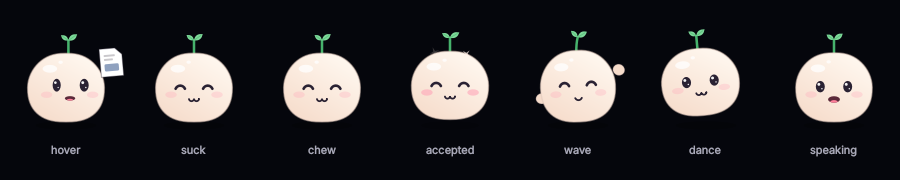
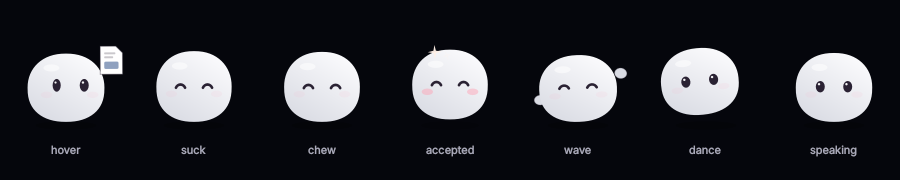
Pip: clean and minimal, a soft mochi blob without sprout or mouth
Rounder body, one soft highlight, a single eye glint, faint cheeks. No mouth: speaking pulses the
body with the voice, chewing squishes it, swallowed files sink into it. The spring that moved the
sprout now gives a soft jelly wobble.

Claude-Session: https://claude.ai/code/session_014cEZ2VwHUnFSRNriFUyGeE

diff --git a/omarchy/plugin/ui/pip-engine.js b/omarchy/plugin/ui/pip-engine.js
@@ -4,8 +4,8 @@
 // No QML and no wall clock: the host calls update(dt) and draw(ctx, w, h), and the engine keeps its
 // own clock, so the same file runs in Quickshell and under Node (omarchy/dev/pip-engine.test.js).
 //
-// Pip is Jarvis's own character: a little gumdrop with a springy sprout, glossy eyes, rosy cheeks,
-// a cat mouth and nub hands. Its behaviours follow the ones Coucou made popular (states, emotes,
+// Pip is Jarvis's own character: a clean, minimal soft blob with glossy eyes, faint cheeks and nub
+// hands, and no mouth: it speaks by pulsing with the voice and swallows files into its body. Its behaviours follow the ones Coucou made popular (states, emotes,
 // particles, greeting wave, dance, gulp and chew, poke-to-dizzy, the file swallow), written anew
 // here; the timing ideas come from Coucou's MIT engine (github.com/louis-cfm/coucou, (c) 2026 Louis
 // Raillé). None of Coucou's artwork, character, name or sounds is used.
@@ -33,33 +33,33 @@ function rgba(c, a) {
 function mix(a, b, t) { return [lerp(a[0], b[0], t), lerp(a[1], b[1], t), lerp(a[2], b[2], t)] }
 
 // ── Palette ──
-var BODY_TOP = hex("#fff8f0"), BODY_BOTTOM = hex("#f6dccb"), INK = hex("#2a2233"), CHEEK = hex("#ff9eb3")
-var LEAF = hex("#7ed99a"), LEAF_DARK = hex("#46b26c"), MOUTH = hex("#5b2a3a"), TONGUE = hex("#ff7f9a")
+var BODY_TOP = hex("#fbfbfd"), BODY_BOTTOM = hex("#d9dbe3"), INK = hex("#2a2233"), CHEEK = hex("#ff9eb3")
+var MOUTH = hex("#5b2a3a"), TONGUE = hex("#ff7f9a")
 
 // ── States: colour, how much it tints the body, eyes, badge, and the idle motion of each ──
 function S(color, tint, eye, badge, extra) {
   var o = { color: hex(color), tint: tint, eye: eye, badge: badge, bounces: false, scans: false, breathes: false,
-            zz: false, sweat: false, look: null, tilt: 0, sprout: 0 }
+            zz: false, sweat: false, look: null, tilt: 0 }
   for (var k in extra) o[k] = extra[k]
   return o
 }
 var STATES = {
   idle:      S("#ffe9dc", 0, "pill", null, { breathes: true }),
-  listening: S("#5fd4ff", 0.45, "wide", null, { look: [0, -0.25], sprout: 1 }),
+  listening: S("#5fd4ff", 0.45, "wide", null, { look: [0, -0.25] }),
   speaking:  S("#8fd8ff", 0.35, "pill", null, {}),
   thinking:  S("#a98bff", 0.6, "pill", "dots", { look: [0.55, -0.6], tilt: -0.06 }),
   working:   S("#5aa8ff", 0.6, "pill", "dots", {}),
   searching: S("#7c83ff", 0.6, "pill", "dots", { scans: true }),
   browsing:  S("#4cc3ff", 0.55, "pill", "dots", { scans: true }),
   reading:   S("#b49cff", 0.55, "pill", "dots", { look: [0, 0.5] }),
-  approval:  S("#ffb53d", 0.7, "wide", "bang", { bounces: true, sprout: 1 }),
+  approval:  S("#ffb53d", 0.7, "wide", "bang", { bounces: true }),
   question:  S("#3fe0f0", 0.62, "pill", "question", { tilt: 0.17 }),
   error:     S("#ff5d6c", 0.7, "flat", "dot", {}),
   finished:  S("#3fdc9c", 0.4, "happy", "dot", {}),
   ratelimit: S("#ff9a4a", 0.6, "tired", "dot", { sweat: true }),
-  sleeping:  S("#9aa8c2", 0.3, "closed", null, { breathes: true, zz: true, sprout: -1 }),
+  sleeping:  S("#9aa8c2", 0.3, "closed", null, { breathes: true, zz: true }),
   dizzy:     S("#ff7fc4", 0.6, "spiral", null, {}),
-  offline:   S("#8a93a6", 0.4, "closed", null, { breathes: true, sprout: -1 })
+  offline:   S("#8a93a6", 0.4, "closed", null, { breathes: true })
 }
 var EMOTE_EYE = { love: "heart", surprised: "dot", proud: "star", wink: "wink", yawn: "tired", happy: "happy",
                   annoyed: "line", content: "cup" }
@@ -71,8 +71,8 @@ function danceTransform(seconds, level, R) {
            rotate: 0.1 * Math.sin(Math.PI * beat) * level, sx: 1 + 0.045 * land * level, sy: 1 - 0.06 * land * level }
 }
 
-// The swallow choreography (seconds after the drop): the mouth opens, the file is sucked in, the
-// mouth closes, a squeeze, two chews, then Pip waits for the real result (accepted / rejected).
+// The swallow choreography (seconds after the drop): the file is drawn into the body, a squeeze,
+// two chews (little squishes), then Pip waits for the real result (accepted / rejected).
 var SW = { SUCK_END: 0.3, CLOSE_END: 0.39, SQUEEZE_END: 0.65, CHEW1: 0.65, CHEW_END: 0.93, MOUTH_AJAR: 0.2,
            MOUTH_OPEN: 0.44 }
 function squeeze(t) {
@@ -98,7 +98,7 @@ function Engine(seed) {
   this.tgYaw = 0; this.tgPitch = 0; this.tgTilt = 0; this.tgSx = 1; this.tgSy = 1; this.tgEs = 1
   // inputs
   this.lookX = 0; this.lookY = 0; this.level = 0; this.speaking = false
-  // the sprout (soft part on a spring) and the mouth spring
+  // the jelly spring (soft wobble) and the mouth spring
   this.physDx = 0; this.physDy = 0; this.physVx = 0; this.physVy = 0
   this.prevYaw = 0; this.prevOy = 0; this.prevRoll = 0
   this.slotH = 0; this.slotHTarget = 0; this.slotHVel = 0; this.chewing = false
@@ -379,7 +379,7 @@ E._stepSwallow = function(dt) {
     var t = s.t
     this.slotHTarget = t < SW.SUCK_END ? SW.MOUTH_OPEN : 0
     var k = Ease.in(seg(t, 0, SW.SUCK_END))
-    s.fx = lerp(s.sx0, 0, k); s.fy = lerp(s.sy0, 0.42, k)
+    s.fx = lerp(s.sx0, 0, k); s.fy = lerp(s.sy0, 0.1, k)
     s.scale = 1 - k
     this.lookX = s.fx * 0.4; this.lookY = 0.3
     if (t > SW.SUCK_END && t <= SW.SQUEEZE_END) { var q = squeeze(t); this.sx = q[0]; this.sy = q[1] }
@@ -441,7 +441,7 @@ E.update = function(dt) {
   } else if (this.permanentEmote) {
     this.tgSy = 1 + Math.sin(t * 2.2) * 0.04; this.tgSx = 1 - Math.sin(t * 2.2) * 0.02
   } else {
-    this.tgSy = 1 + Math.sin(t * 1.6) * 0.012 + talk * 0.05; this.tgSx = 1 - talk * 0.025
+    this.tgSy = 1 + Math.sin(t * 1.6) * 0.012 + talk * 0.09; this.tgSx = 1 + talk * 0.04
   }
   if (this.permanentEmote && n > this.miniNext) this._miniBehaviour()
 
@@ -494,12 +494,12 @@ E.update = function(dt) {
   if (this.dancing) this.danceLevel = Math.min(1, this.danceLevel + dt / 0.3)
   else this.danceLevel = Math.max(0, this.danceLevel - dt / 0.5)
 
-  // the sprout lags behind turns, hops and rolls on a spring (k 60, c 9), and perks up or droops
+  // the jelly spring lags behind turns, hops and rolls (k 60, c 9)
   if (dt > 0) {
     var yawVel = (this.yaw - this.prevYaw) / dt, oyVel = (this.oy - this.prevOy) / dt
     var dRoll = this.roll - this.prevRoll, rollVel = Math.abs(dRoll) > Math.PI ? 0 : dRoll / dt
     var tDx = clamp(-yawVel * 0.35 - this.tilt * 2 + rollVel * 0.12 + (this.state === "listening" ? Math.sin(t * 7) * this.level * 0.6 : 0), -1, 1)
-    var tDy = clamp(oyVel * 0.5 - c.sprout * 0.25, -1, 1)
+    var tDy = clamp(oyVel * 0.5, -1, 1)
     this.physVx += (60 * (tDx - this.physDx) - 9 * this.physVx) * dt
     this.physVy += (60 * (tDy - this.physDy) - 9 * this.physVy) * dt
     this.physDx += this.physVx * dt
@@ -520,7 +520,7 @@ E.eye = function() { return this.eyeOverride || this.cfg.eye }
 
 // ── drawing ──
 // Draws Pip centred in a w×h box (the body radius R is 0.3 of the smaller side, leaving room for the
-// sprout, the badge and particles).
+// badge and particles).
 E.draw = function(x, W, H) {
   var R = Math.min(W, H) * 0.3
   var rx = R * 1.06, ry = R * 0.96
@@ -543,14 +543,16 @@ E.draw = function(x, W, H) {
   x.translate(cx, cy)
   x.rotate(this.tilt + this.roll)
   // squash and stretch around the feet
-  x.translate(0, ry); x.scale(this.sx, this.sy); x.translate(0, -ry)
+  // plus a soft jelly wobble from the spring (turns, hops, pokes)
+  var j = clamp(this.physDy, -1, 1) * 0.05
+  if (this.chewing) j += Math.sin(this.clock * 16) * 0.035   // chewing: little squishes
+  x.translate(0, ry); x.scale(this.sx * (1 + j), this.sy * (1 - j)); x.translate(0, -ry)
+  x.rotate(clamp(this.physDx, -1, 1) * 0.04)
 
-  this._drawSprout(x, R, ry)
   this._drawHands(x, R, rx, ry, false)
   this._drawBody(x, R, rx, ry)
   this._drawCheeks(x, R, rx)
   this._drawEyes(x, R, rx)
-  this._drawMouth(x, R)
   this._drawHands(x, R, rx, ry, true)
   if (this.state === "dizzy") this._drawDizzyStars(x, R, ry)
   x.restore()
@@ -578,9 +580,8 @@ E._bodyPath = function(x, rx, ry) {
   x.beginPath()
   for (var i = 0; i <= 64; i++) {
     var a = i / 64 * Math.PI * 2, ca = Math.cos(a), sa = Math.sin(a)
-    var px = rx * (ca >= 0 ? Math.pow(ca, 0.8) : -Math.pow(-ca, 0.8))
-    var py = ry * (sa >= 0 ? Math.pow(sa, 0.85) : -Math.pow(-sa, 0.95))
-    if (sa < 0) px *= 1 - 0.1 * Math.pow(-sa, 1.5)         // a softer, narrower crown
+    var px = rx * (ca >= 0 ? Math.pow(ca, 0.9) : -Math.pow(-ca, 0.9))
+    var py = ry * (sa >= 0 ? Math.pow(sa, 0.82) : -Math.pow(-sa, 0.95))
     if (i === 0) x.moveTo(px, py); else x.lineTo(px, py)
   }
   x.closePath()
@@ -594,46 +595,17 @@ E._drawBody = function(x, R, rx, ry) {
   this._bodyPath(x, rx, ry)
   x.fillStyle = g
   x.fill()
-  // a soft rim and a glossy highlight
-  x.lineWidth = Math.max(1, R * 0.04)
-  x.strokeStyle = rgba(mix(bottom, INK, 0.12), 0.5)
-  this._bodyPath(x, rx, ry); x.stroke()
-  x.save(); x.globalAlpha = 0.75; x.fillStyle = "rgba(255,255,255,1)"
-  _ellipse(x, -rx * 0.42, -ry * 0.55, R * 0.2, R * 0.11); x.fill()
-  _ellipse(x, -rx * 0.14, -ry * 0.74, R * 0.06, R * 0.045); x.fill()
+  // one soft highlight
+  x.save(); x.globalAlpha = 0.55; x.fillStyle = "rgba(255,255,255,1)"
+  _ellipse(x, -rx * 0.38, -ry * 0.58, R * 0.22, R * 0.1); x.fill()
   x.restore()
 }
 E._drawCheeks = function(x, R, rx) {
-  var b = 0.35 + this.blush * 0.65
-  x.save(); x.globalAlpha = b * 0.75; x.fillStyle = rgba(CHEEK)
+  var b = 0.12 + this.blush * 0.88
+  x.save(); x.globalAlpha = b * 0.7; x.fillStyle = rgba(CHEEK)
   var off = this.yaw * R * 0.18
   _ellipse(x, -rx * 0.6 + off, R * 0.2, R * 0.16, R * 0.09); x.fill()
   _ellipse(x, rx * 0.6 + off, R * 0.2, R * 0.16, R * 0.09); x.fill()
-  x.restore()
-}
-E._drawSprout = function(x, R, ry) {
-  var bx = this.yaw * R * 0.12, by = -ry * 0.98
-  var lean = this.physDx * 0.7 + this.tilt * -0.5, droop = this.physDy
-  var tipX = bx + Math.sin(lean) * R * 0.38, tipY = by - Math.cos(lean) * R * (0.38 - droop * 0.12)
-  x.save()
-  x.lineCap = "round"
-  x.strokeStyle = rgba(LEAF_DARK); x.lineWidth = Math.max(1.2, R * 0.07)
-  x.beginPath(); x.moveTo(bx, by + R * 0.04)
-  x.quadraticCurveTo(bx + Math.sin(lean) * R * 0.05, by - R * 0.2, tipX, tipY); x.stroke()
-  // two leaves, the left one a bit smaller
-  var leaves = [[-1, 0.85], [1, 1]]
-  for (var i = 0; i < 2; i++) {
-    var s = leaves[i][0], size = leaves[i][1] * R * 0.26
-    var ang = lean + s * (0.95 - droop * 0.5)
-    x.save(); x.translate(tipX, tipY); x.rotate(ang)
-    x.beginPath(); x.moveTo(0, 0)
-    x.quadraticCurveTo(-size * 0.55, -size * 0.55, 0, -size * 1.15)
-    x.quadraticCurveTo(size * 0.55, -size * 0.55, 0, 0)
-    x.fillStyle = rgba(LEAF); x.fill()
-    x.strokeStyle = rgba(LEAF_DARK, 0.6); x.lineWidth = Math.max(0.8, R * 0.025)
-    x.beginPath(); x.moveTo(0, -size * 0.1); x.lineTo(0, -size * 0.9); x.stroke()
-    x.restore()
-  }
   x.restore()
 }
 E._drawHands = function(x, R, rx, ry, front) {
@@ -677,8 +649,7 @@ function _eye(x, s, ex, ey, w, h, open, R, side, clock) {
     _ellipse(x, ex, ey, w / 2, oh / 2); x.fill()
     if (open > 0.5) {   // glossy highlights
       x.fillStyle = "rgba(255,255,255,0.95)"
-      _ellipse(x, ex - w * 0.16, ey - oh * 0.2, w * 0.17, w * 0.17); x.fill()
-      _ellipse(x, ex + w * 0.18, ey + oh * 0.18, w * 0.08, w * 0.08); x.fill()
+      _ellipse(x, ex - w * 0.14, ey - oh * 0.22, w * 0.14, w * 0.14); x.fill()
     }
   } else if (s === "dot") {
     _ellipse(x, ex, ey, w * 0.32, w * 0.32); x.fill()
@@ -723,36 +694,6 @@ function _star(x, cx, cy, ro, ri, n) {
     else x.lineTo(cx + Math.cos(a) * r, cy + Math.sin(a) * r)
   }
   x.closePath()
-}
-E._drawMouth = function(x, R) {
-  var mx = this.yaw * R * 0.2, my = R * 0.3 + this.pitch * R * 0.08
-  x.save()
-  x.lineCap = "round"; x.lineJoin = "round"
-  var open = this.slotH
-  if (this.chewing) open = 0.06 + Math.abs(Math.sin(this.clock * 16)) * 0.08
-  if (open > 0.03) {
-    var w = R * (0.2 + open * 0.45), h = R * open * 0.62
-    _ellipse(x, mx, my + h * 0.2, w / 2, h / 2)
-    x.fillStyle = rgba(MOUTH); x.fill()
-    if (h > R * 0.1) { x.save(); _ellipse(x, mx, my + h * 0.2, w / 2, h / 2); x.clip()
-      x.fillStyle = rgba(TONGUE); _ellipse(x, mx, my + h * 0.62, w * 0.32, h * 0.32); x.fill(); x.restore() }
-  } else {
-    // the cat mouth: ω, or a little smile / frown for some states
-    x.strokeStyle = rgba(INK); x.lineWidth = Math.max(1, R * 0.05)
-    var s = R * 0.07
-    x.beginPath()
-    if (this.state === "error" || this.state === "ratelimit") {
-      x.arc(mx, my + s * 1.3, s * 1.3, Math.PI * 1.2, Math.PI * 1.8, false)
-    } else if (this.state === "finished" || this.eye() === "happy" || this.eye() === "heart") {
-      x.arc(mx, my - s * 0.4, s * 1.5, Math.PI * 0.15, Math.PI * 0.85, false)
-    } else {
-      x.arc(mx - s, my, s, Math.PI * 0.1, Math.PI * 0.95, false)
-      x.moveTo(mx + s * 2 * Math.cos(Math.PI * 0.05), my + s * Math.sin(Math.PI * 0.05))
-      x.arc(mx + s, my, s, Math.PI * 0.05, Math.PI * 0.9, false)
-    }
-    x.stroke()
-  }
-  x.restore()
 }
 E._drawDizzyStars = function(x, R, ry) {
   for (var i = 0; i < 3; i++) {

diff --git a/docs/COUCOU_HANDOFF.md b/docs/COUCOU_HANDOFF.md
@@ -30,13 +30,13 @@ Make the Jarvis island a living companion, driven by Coucou's MIT animation engi
 ## Pip: our own character, with the full set of Coucou-style animations (default)
 
 The user wanted every Coucou animation in the project, as our own, cuter character that is fine to publish. That is `omarchy/plugin/ui/pip-engine.js`, Jarvis's own engine and artwork, about 700 lines of plain JS:
-- **Character:** a gumdrop with a springy sprout, glossy eyes with highlights, rosy cheeks, a cat ω mouth, nub hands and a ground shadow.
+- **Character:** a clean, minimal soft mochi blob with glossy eyes (one glint), faint cheeks, nub hands and a ground shadow. It has no mouth and no sprout, at the user's request. It speaks by pulsing with the voice, chews with little squishes, and swallowed files sink into the body.
 - **States (16):** idle, listening, speaking, thinking, working, searching, browsing, reading, approval, question, error, finished, ratelimit, sleeping, dizzy, offline. Each has its own colour tint, eyes, badge and idle motion: breathing, bouncing, scanning, sweat drops or z's.
 - **Eyes (14):** pill, wide, dot, line, flat, happy, cup, closed, tired, spiral, heart, star, wink, plus blinking with occasional double blinks.
 - **Emotes:** love, surprised, proud, wink, yawn, happy, annoyed, content. Permanent moods repeat a small behaviour: hop, head shake, wink or hearts.
 - **Particles:** hearts, stars, sparks, sweat drops, z's.
 - **Badges:** dots, !, ?, dot, an update arrow, with pop-in.
-- **Motion:** the greeting hop with a hand wave; the 112 BPM dance; gulp and chew; squash; poke ×3 → dizzy, with roll and orbiting stars; the sprout on a spring; the mouth on a spring following the voice.
+- **Motion:** the greeting hop with a hand wave; the 112 BPM dance; gulp and chew; squash; poke ×3 → dizzy, with roll and orbiting stars; a jelly wobble on a spring, and a body pulse following the voice.
 - **The file swallow:** dragEnter/dragMove/dragLeave/drop, then accepted() or rejected(). The mouth is ajar while the file hovers; the file is sucked in, then a squeeze and chews, and Pip waits for the *real* result. Accepted: content eyes and sparks. Rejected: the file is spat back out.
 
 The timings follow Coucou's MIT engine; no Coucou code or artwork is copied. `Pip.qml` hosts the engine in a Canvas. It ticks at 60 fps while moving, 20 fps while only breathing, and stops when hidden. Tests: `node --test omarchy/dev/pip-engine.test.js`. These drive every state, emote and choreography through a canvas that rejects any method QML's Canvas lacks. Renders: `evidence/coucou/pip-moods.png` and `pip-actions.png`. Preview: `omarchy/dev/pip-preview.qml`.
